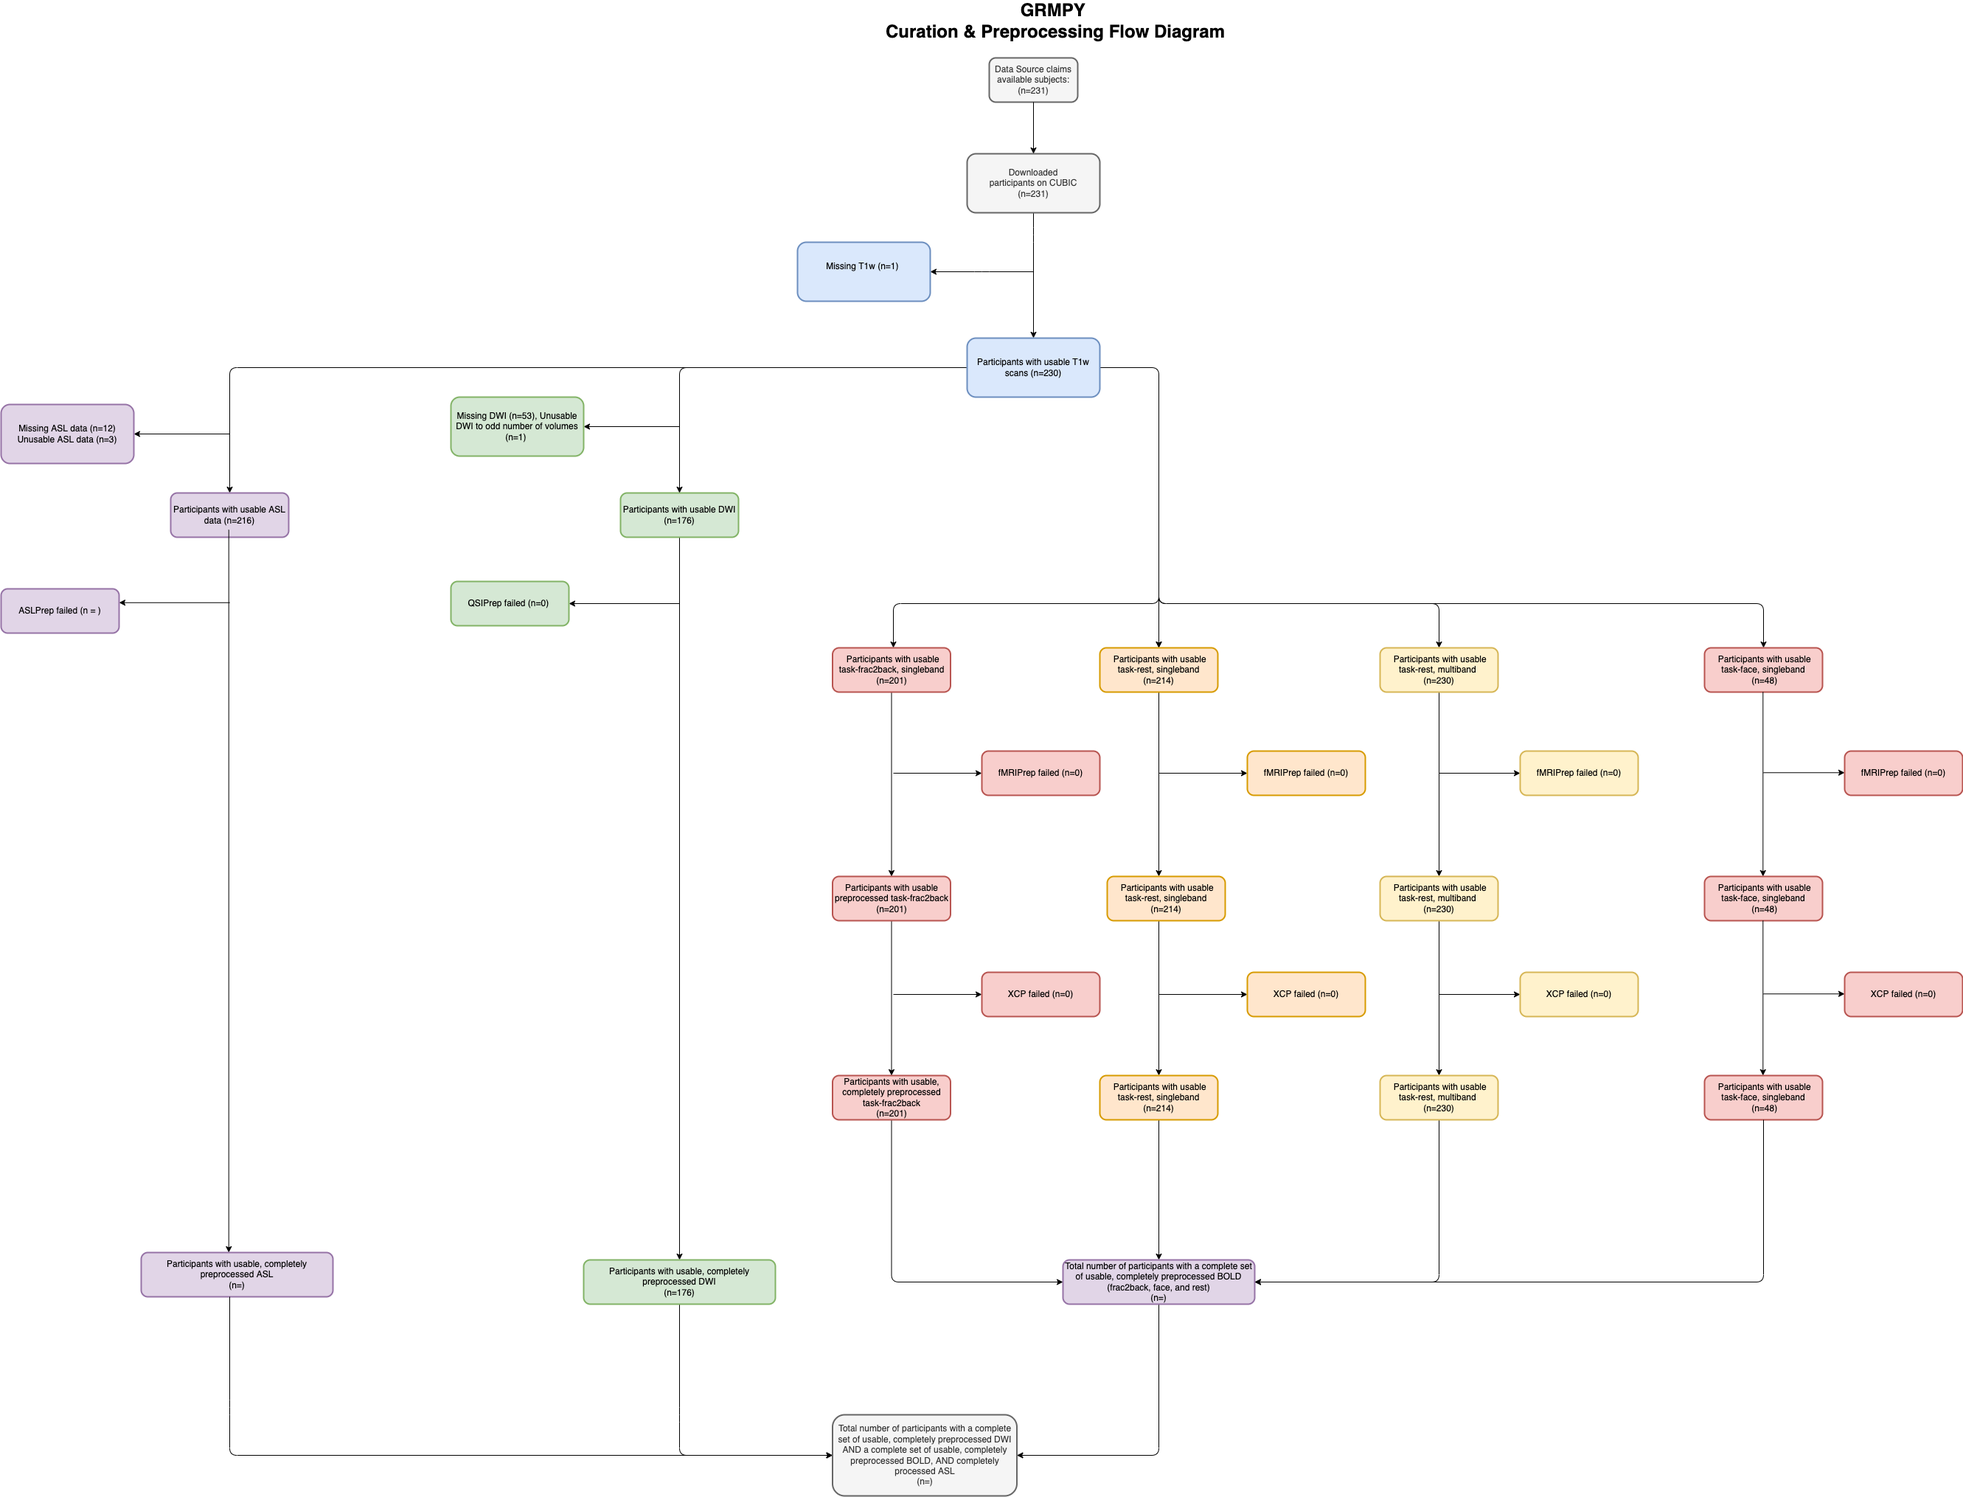
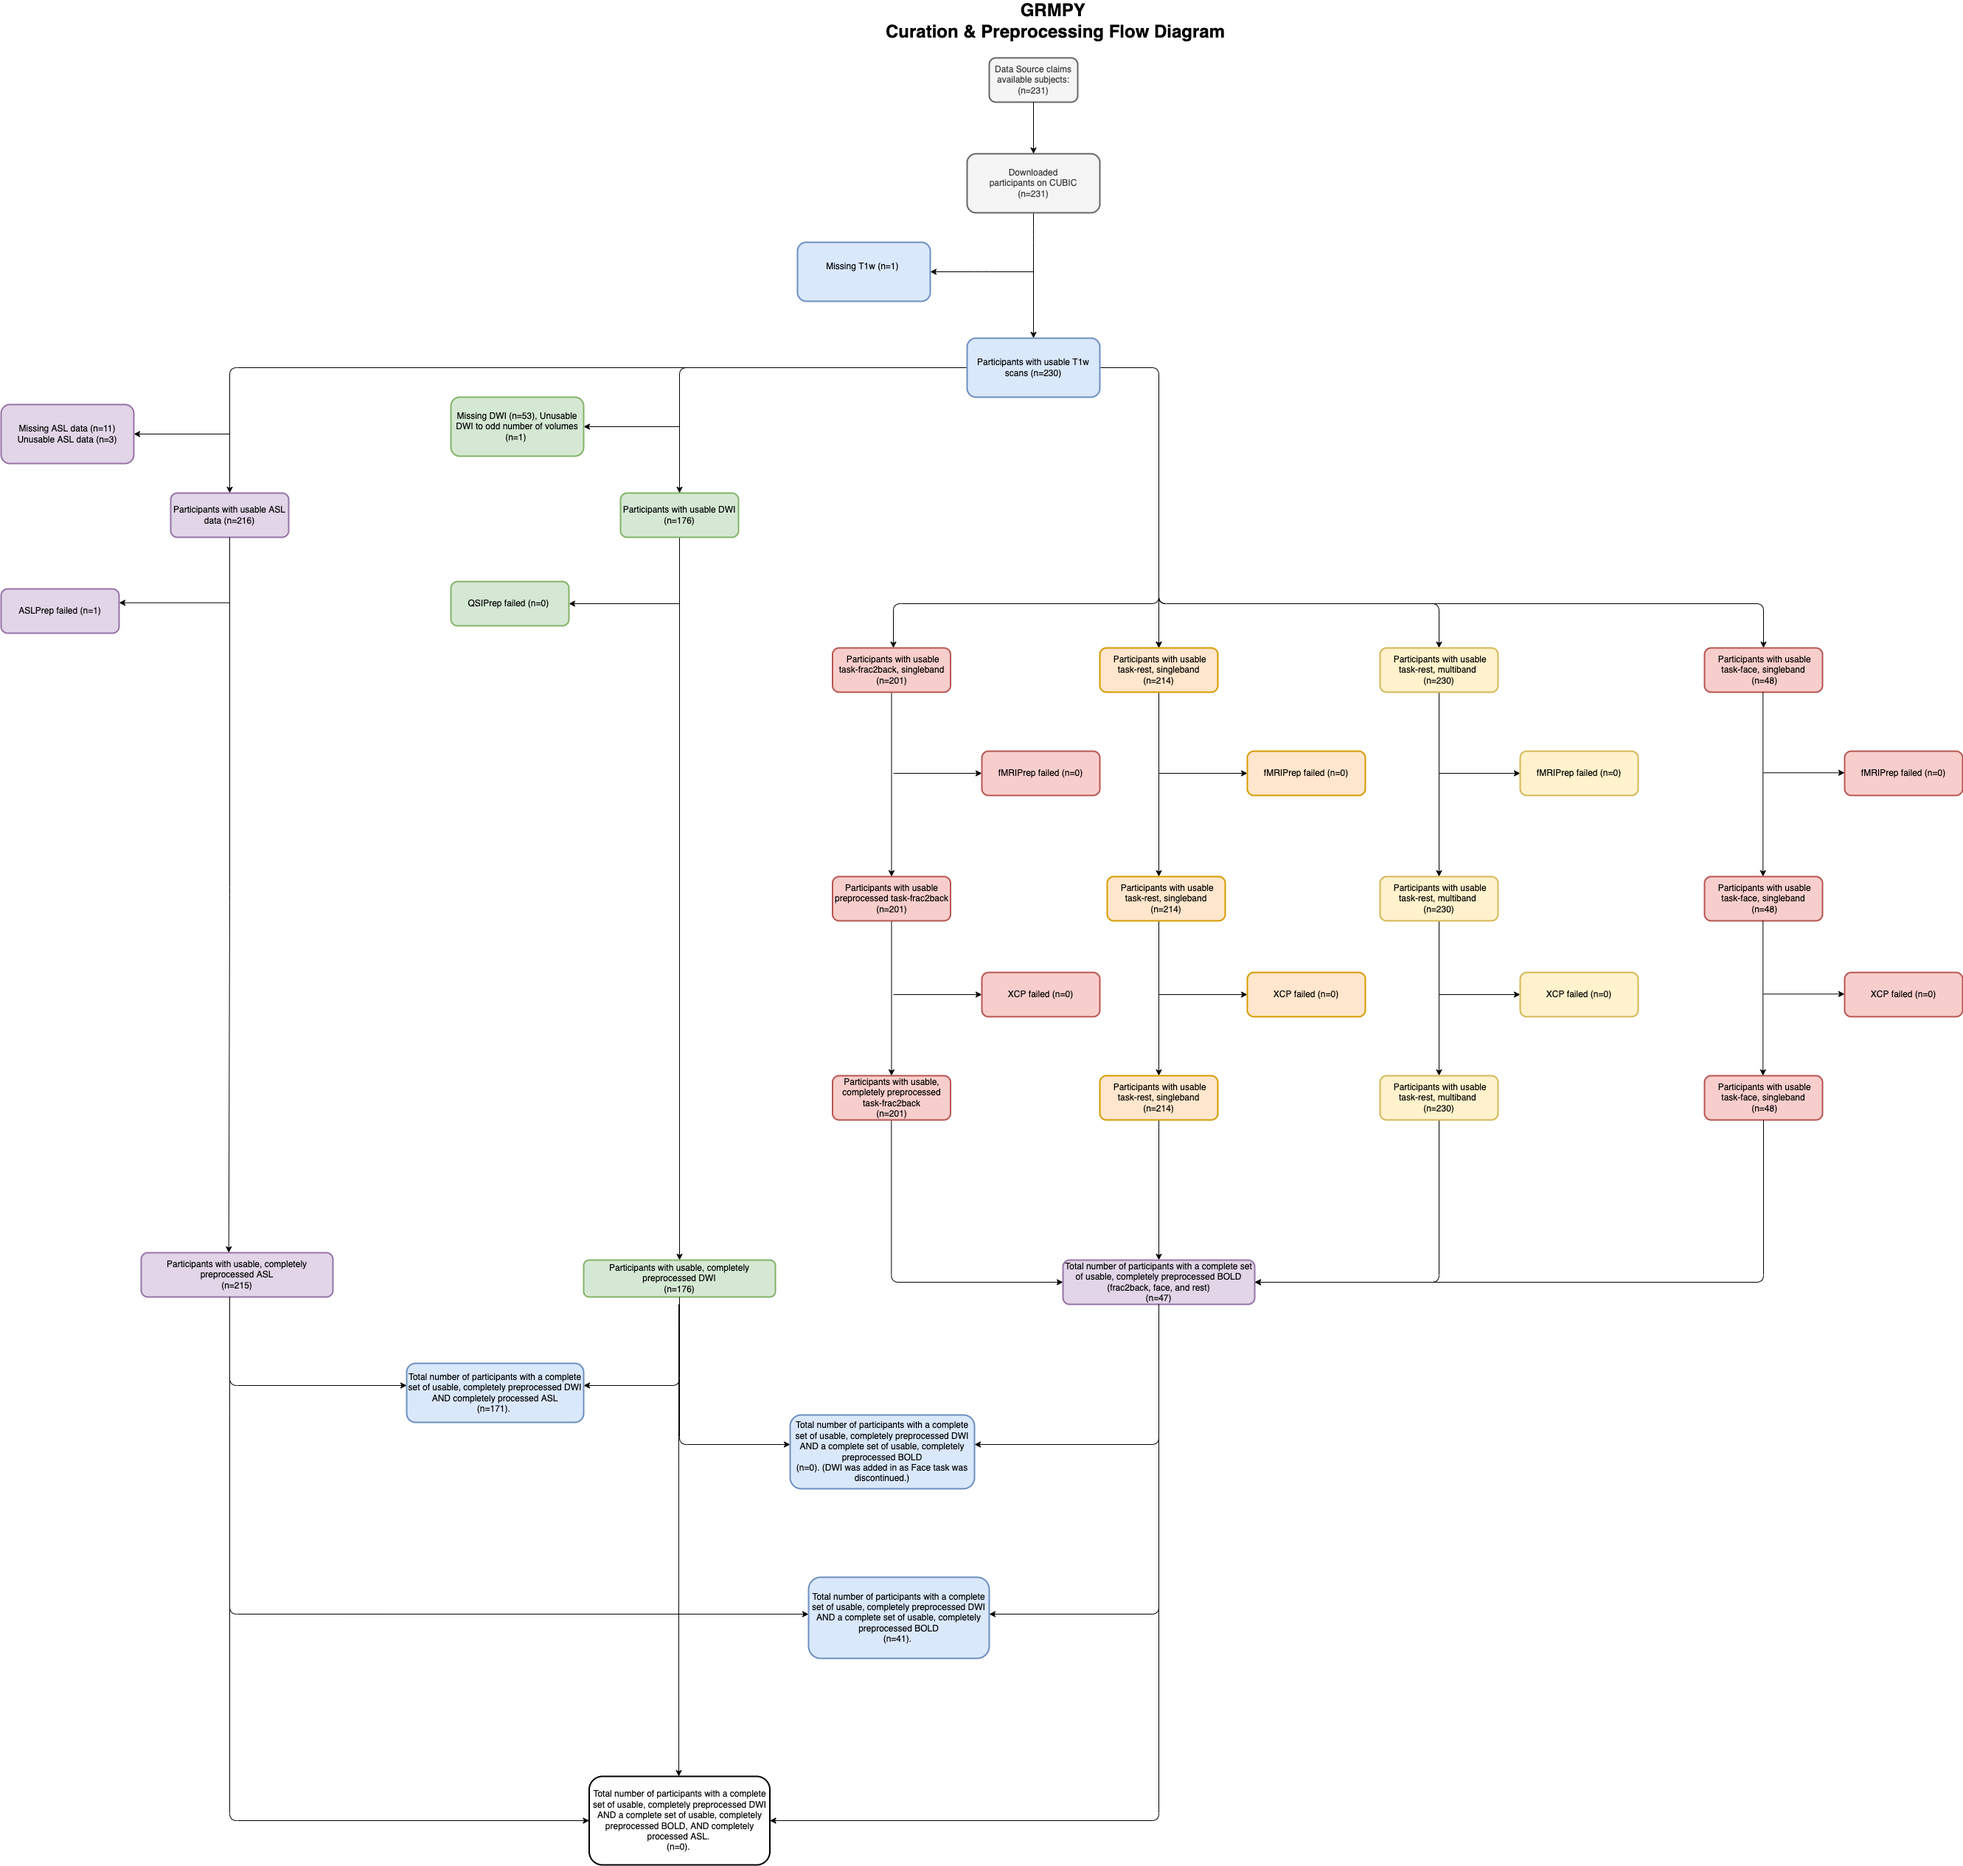
updated dn

diff --git a/analyses/ImageProcessingPipelines.md b/analyses/ImageProcessingPipelines.md
@@ -165,13 +165,11 @@ singularity run --cleanenv -B ${PWD} \
 
 - Number of Subjects Run: 231
 
-- Finished Successfully: 213
+- Finished Successfully: 215
 
-- Failed due to no T1: 0
+- Failed due to no/ unusuable ASL: 14
 
-- Failed due to no/ unusuable ASL: 15
-
-- Failed due to: 1
+- Failed due to Obliquity: 1
 
 - Link to outputs on CUBIC: /cbica/projects/GRMPY/project/curation/testing/aslprep_outputs
 
